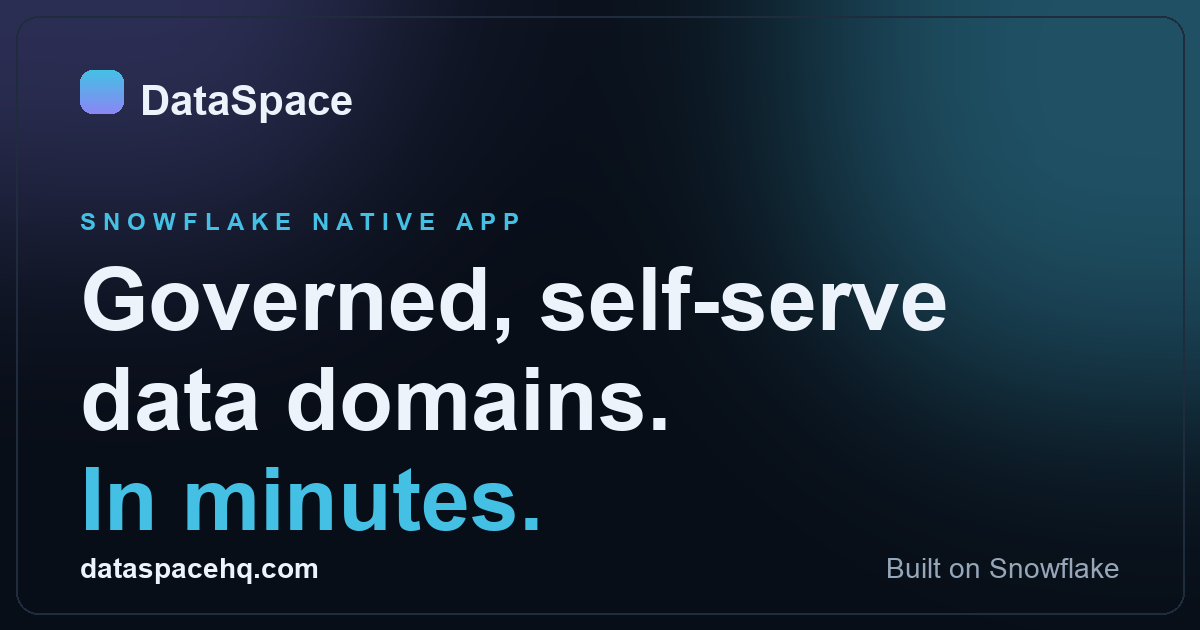
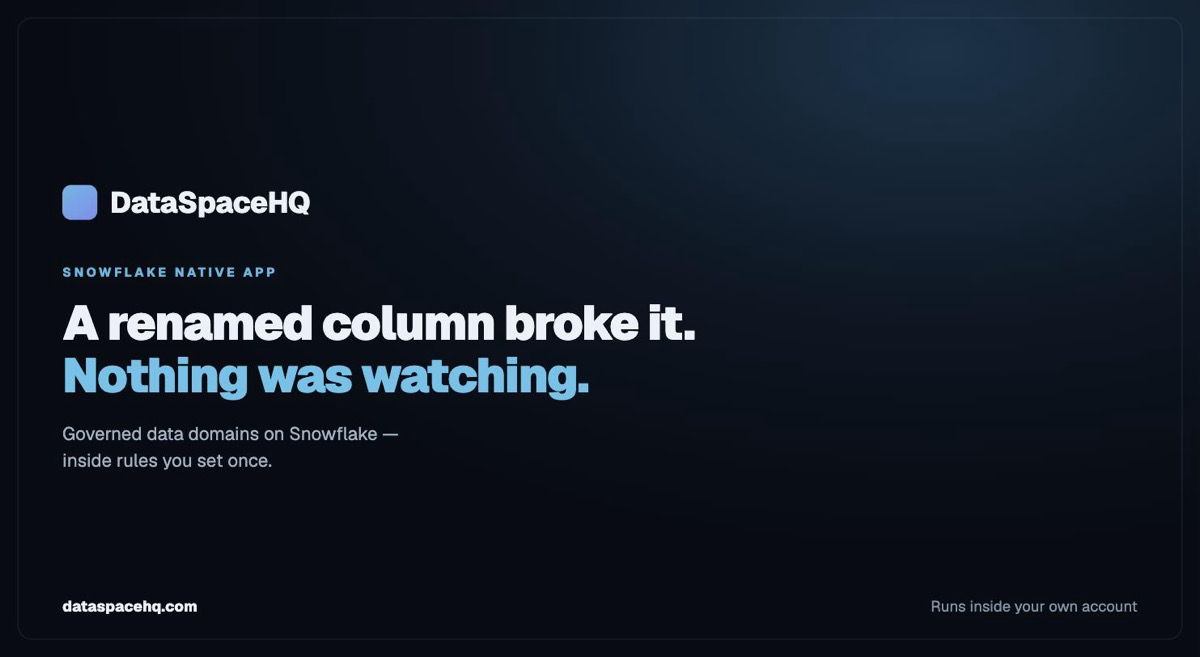
landing: show the product, fix the share card, rewrite the search description
Continuing the landing pass. Three things a first-time reader hits before
they reach any of the copy.

## There was no picture of the product

The page had two terminal mocks and not one screenshot of the thing you'd
actually be looking at. A data leader deciding whether to spend 25 minutes on
a call had no idea what they were deciding about.

New section after "How it works": the console, with the rules in force across
the top, three domains and their state, and one domain's detail open. Taken
from demo/console_preview.sh in the product repo with deliberately
illustrative domain names, and captioned as such — everything on that screen
is read from the viewer's own account, and the page says so rather than
implying a customer.

## The share card had the wrong company name on it

og.png said "DataSpace". The company is DataSpaceHQ — it is what the header,
the footer and every other asset say. That card is what appears when someone
drops the link into Slack or LinkedIn after meeting us, which over the next
week is most of the traffic.

Rebuilt, with the full name and the hook this page now leads with: "A renamed
column broke it. Nothing was watching." og-preview.html is kept so the asset
can be regenerated rather than redrawn from memory, and the declared
og:image:height now matches the file instead of being 630 for a 657px image.

## The search and share text still described the old positioning

The meta description, og:description and twitter:description all opened with
[…]

diff --git a/index.html b/index.html
@@ -4,18 +4,19 @@
 <meta charset="utf-8">
 <meta name="viewport" content="width=device-width, initial-scale=1">
 <title>DataSpaceHQ — Governed Self-Serve Data Domains on Snowflake</title>
-<meta name="description" content="Provision a governed Snowflake data domain in minutes — for every builder, human or AI. A Snowflake Native App that runs entirely inside your account.">
+<meta name="description" content="A renamed column can break a dashboard for three months. DataSpaceHQ gives every team on Snowflake the same governed shape — inside rules you set once. Runs as a Native App in your own account.">
 <meta property="og:type" content="website">
 <meta property="og:site_name" content="DataSpaceHQ">
-<meta property="og:title" content="Self-serve data domains. Governed by design.">
-<meta property="og:description" content="Provision a complete, governed Snowflake data domain in one action — and give every builder on your data, human or AI, the same rules to follow.">
+<meta property="og:title" content="Governed data domains on Snowflake — DataSpaceHQ">
+<meta property="og:description" content="A renamed column can break a dashboard for three months. DataSpaceHQ gives every team on Snowflake the same governed shape — inside rules you set once. Runs as a Native App in your own account.">
 <meta property="og:url" content="https://dataspacehq.com/">
 <meta property="og:image" content="https://dataspacehq.com/og.png">
 <meta property="og:image:width" content="1200">
-<meta property="og:image:height" content="630">
+<meta property="og:image:height" content="657">
+  <meta property="og:image:alt" content="DataSpaceHQ — a renamed column broke it. Nothing was watching.">
 <meta name="twitter:card" content="summary_large_image">
-<meta name="twitter:title" content="Self-serve data domains. Governed by design.">
-<meta name="twitter:description" content="Provision a complete, governed Snowflake data domain in one action — for every builder, human or AI.">
+<meta name="twitter:title" content="Governed data domains on Snowflake — DataSpaceHQ">
+<meta name="twitter:description" content="A renamed column can break a dashboard for three months. DataSpaceHQ gives every team on Snowflake the same governed shape — inside rules you set once. Runs as a Native App in your own account.">
 <meta name="twitter:image" content="https://dataspacehq.com/og.png">
 <link rel="canonical" href="https://dataspacehq.com/">
 <meta name="theme-color" content="#080E18">
@@ -490,6 +491,24 @@
       <div class="card"><div class="step mono">02 — create</div><div class="klab">One action</div><h3>DataSpaceHQ builds it</h3><p>Ingest → transform → serve, standing in minutes. Your rules are checked first: if one fails, nothing is created at all.</p></div>
       <div class="card"><div class="step mono">03 — consume</div><div class="klab">Output ports</div><h3>Other teams use it</h3><p>A governed HTTP endpoint, or a Snowflake view for SQL users. Callers sign in, send no SQL of their own, and see personal columns masked unless your rules say otherwise.</p></div>
     </div>
+  </section>
+
+  <section id="console-shot" class="reveal" style="padding-top:0">
+    <span class="eyebrow">What you'd be looking at</span>
+    <h2 style="margin-top:14px">One console, every domain.</h2>
+    <p class="lead-2">The rules in force across the top, every domain and its state beneath, and
+    the contract, the rules file and the lineage a click away. It runs inside Snowsight — there is
+    no second tool to log into.</p>
+    <figure style="margin:30px 0 0">
+      <img src="/console.png" alt="The DataSpaceHQ console: company rules across the top, three
+      governed domains with their owner, status, storage, warehouse and layers, and a detail view
+      of one domain showing its output port." width="1400" height="700"
+      loading="lazy" decoding="async"
+      style="width:100%; height:auto; display:block; border:1px solid var(--line);
+             border-radius:var(--r); box-shadow:var(--shadow-lg)">
+      <figcaption class="fine" style="margin-top:12px">Illustrative domains. Everything on this
+      screen is read from your own Snowflake account.</figcaption>
+    </figure>
   </section>
 
   <!-- GOVERNS WHAT YOU ALREADY HAVE -->

diff --git a/og-preview.html b/og-preview.html
@@ -1,0 +1,32 @@
+<!doctype html><meta charset="utf-8">
+<style>
+  @import url('https://fonts.googleapis.com/css2?family=Geist:wght@400;600;800;900&display=swap');
+  *{margin:0;padding:0;box-sizing:border-box}
+  html,body{height:100%;margin:0;background:#05090e;overflow:hidden}
+  .card{position:relative;width:100vw;height:100vh;overflow:hidden;
+        font-family:Geist,-apple-system,system-ui,sans-serif;
+        background:radial-gradient(1100px 620px at 78% 8%, #16344a 0%, #0c1622 55%, #080d14 100%);
+        color:#eaf2f8;display:flex;align-items:center}
+  .frame{position:absolute;inset:22px;border:1px solid rgba(120,170,200,.16);border-radius:18px}
+  .wrap{padding:0 5.2vw;width:100%;position:relative;z-index:2}
+  .brand{display:flex;align-items:center;gap:16px;margin-bottom:54px}
+  .mark{width:2.9vw;height:2.9vw;border-radius:11px;background:linear-gradient(145deg,#5eb8e8,#7d8ff0)}
+  .brand b{font-size:2.45vw;font-weight:800;letter-spacing:-.6px}
+  .eyebrow{font-size:1.06vw;font-weight:700;letter-spacing:.22em;color:#54b6e0;margin-bottom:20px}
+  h1{font-size:4.0vw;line-height:1.1;font-weight:900;letter-spacing:-1.6px;max-width:19ch}
+  h1 .hl{color:#5ec3ea}
+  .sub{margin-top:24px;font-size:1.52vw;line-height:1.45;color:#9db4c6;max-width:30ch}
+  .foot{position:absolute;left:5.2vw;right:5.2vw;bottom:6.3vh;display:flex;
+        justify-content:space-between;align-items:center;font-size:19px}
+  .foot{font-size:1.26vw} .foot b{font-weight:700} .foot span{color:#7d94a6}
+</style>
+<div class="card">
+  <div class="frame"></div>
+  <div class="wrap">
+    <div class="brand"><div class="mark"></div><b>DataSpaceHQ</b></div>
+    <div class="eyebrow">SNOWFLAKE NATIVE APP</div>
+    <h1>A renamed column broke it. <span class="hl">Nothing was watching.</span></h1>
+    <div class="sub">Governed data domains on Snowflake — inside rules you set once.</div>
+  </div>
+  <div class="foot"><b>dataspacehq.com</b><span>Runs inside your own account</span></div>
+</div>
